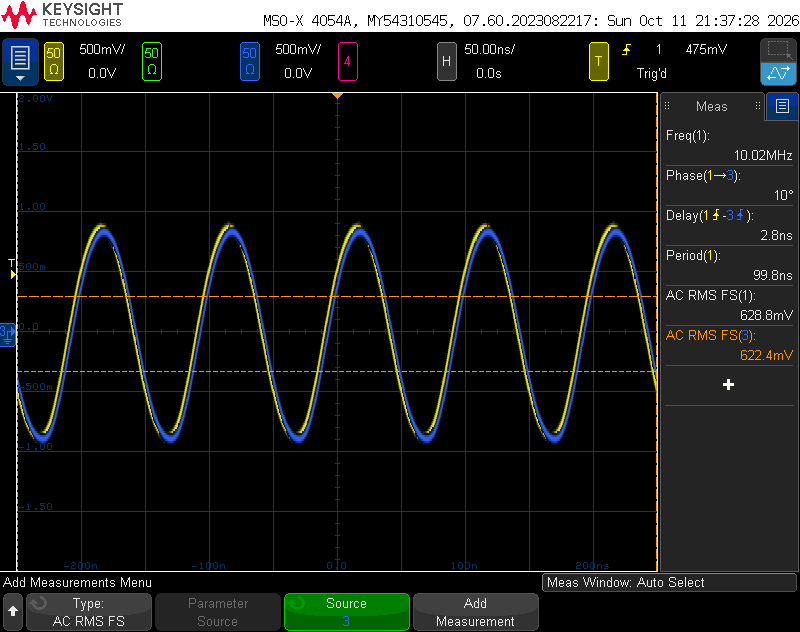
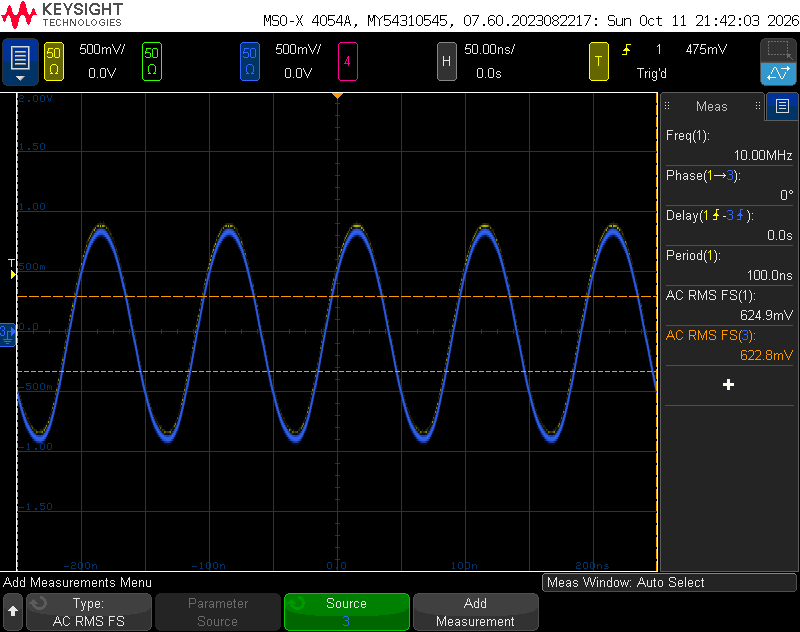
Compare the two 10 MHz outputs through matched cables: in phase, 0.3 %

diff --git a/docs/58503a-second-10mhz.md b/docs/58503a-second-10mhz.md
@@ -49,12 +49,13 @@ The bench unit took 56 Ω 5 % thick-film 0805s.
 
 ## Checking
 
-Terminate J15 and J17 each in 50 Ω and compare them on a scope.  On
-the bench unit the two read 628.8 mV and 622.4 mV rms, within 1 %,
-about +9 dBm each.  They were 2.8 ns apart, through cables of unequal
-length, so how much of that is the stages' own was not measured.
+Terminate J15 and J17 each in 50 Ω and compare them on a scope,
+through cables of equal length.  On the bench unit the two read
+624.9 mV and 622.8 mV rms, within 0.3 %, about +9 dBm each, and in
+phase: 0°, with no delay the scope resolved at 50 ns per division.
+Through cables of unequal length they had read 2.8 ns apart.
 
-![Both outputs into 50 Ω](images/58503A-60001_RevC/58503a-j17-j15-scope.png)
+![Both outputs into 50 Ω, through matched cables](images/58503A-60001_RevC/58503a-j17-j15-scope.png)
 
 J15 has no panel connector: a cable from it to the rear panel is the
 user's to add.
